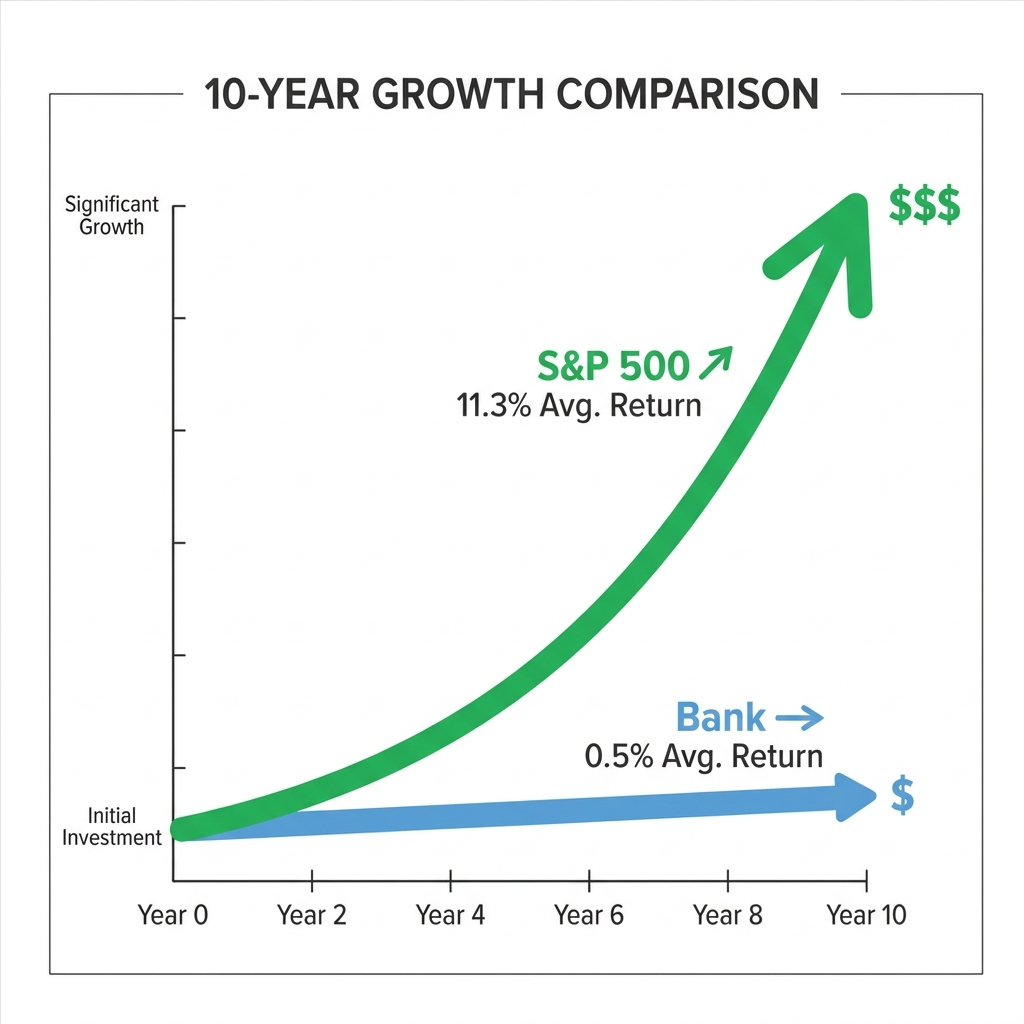
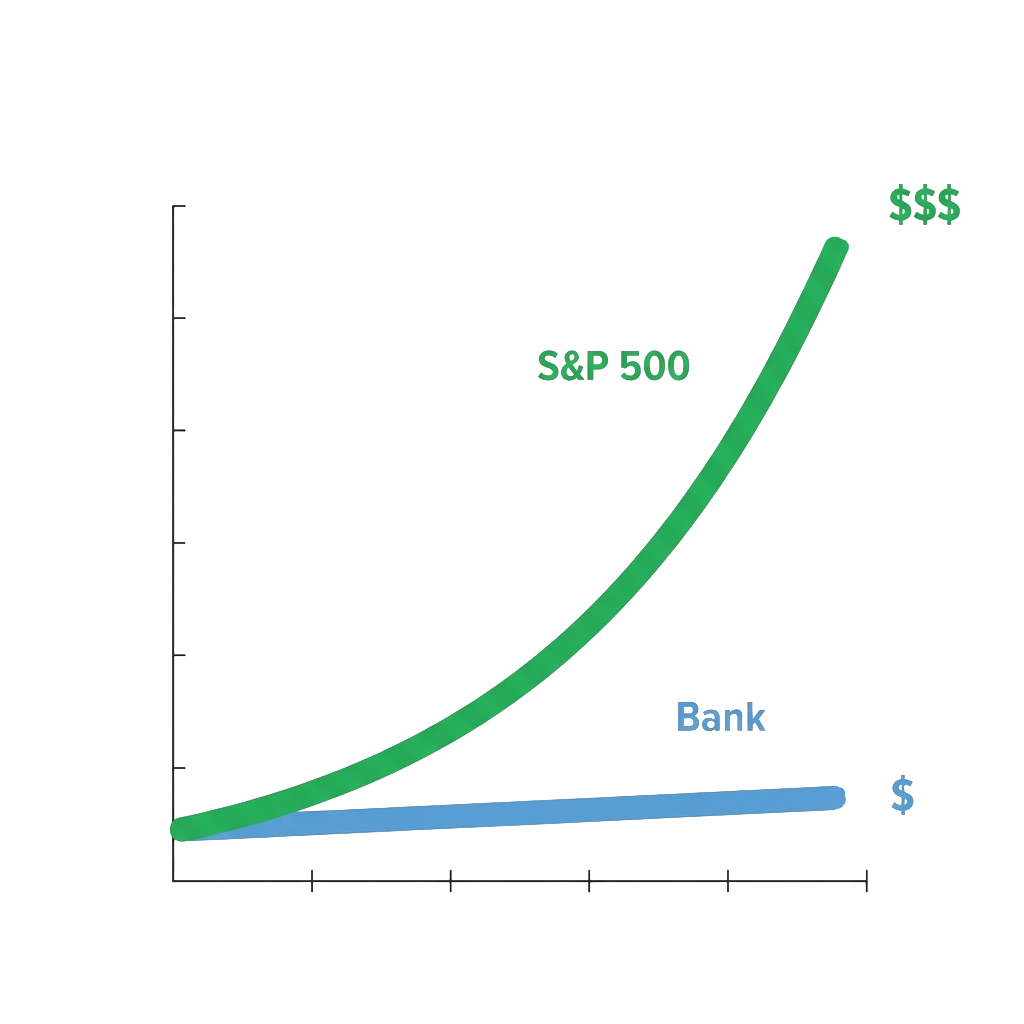
chore: update stocks vs bond illustration

diff --git a/scripts/generate_stocks_vs_bank_chart.py b/scripts/generate_stocks_vs_bank_chart.py
@@ -1,0 +1,58 @@
+
+import matplotlib.pyplot as plt
+import numpy as np
+
+# Data Configuration
+years = np.arange(0, 11) # 0 to 10 years
+initial_investment = 10000
+
+# Growth Rates
+rate_bank = 0.004 # 0.4%
+rate_stocks = 0.12 # 12.0%
+
+# Calculate Curves
+bank_values = initial_investment * (1 + rate_bank) ** years
+stock_values = initial_investment * (1 + rate_stocks) ** years
+
+# Style Configuration
+plt.figure(figsize=(10, 8), dpi=300)
+plt.style.use('default')
+
+# Remove borders (spines)
+for spine in plt.gca().spines.values():
+    spine.set_visible(False)
+
+# Colors
+COLOR_BANK = '#50C878' # Emerald/growth green
+COLOR_STOCKS = '#007AFF' # Investr Blue
+COLOR_TEXT = '#333333'
+
+# Plot Lines
+plt.plot(years, stock_values, color=COLOR_STOCKS, linewidth=4, label='S&P 500 (~12%)')
+plt.plot(years, bank_values, color=COLOR_BANK, linewidth=4, label='Savings (~0.4%)')
+
+# Fill areas for "modern" look (optional, but adds to the alert tile style)
+plt.fill_between(years, stock_values, bank_values, color=COLOR_STOCKS, alpha=0.1)
+plt.fill_between(years, bank_values, initial_investment, color=COLOR_BANK, alpha=0.1)
+
+# Annotations (End Values)
+plt.text(10.2, stock_values[-1], f'${stock_values[-1]:,.0f}', color=COLOR_STOCKS, fontsize=16, fontweight='bold', va='center')
+plt.text(10.2, bank_values[-1], f'${bank_values[-1]:,.0f}', color=COLOR_BANK, fontsize=16, fontweight='bold', va='center')
+
+# Labels and Ticks
+plt.title('Growth of $10,000 (10 Years)', fontsize=20, fontweight='bold', color=COLOR_TEXT, pad=20)
+plt.xlabel('Years', fontsize=14, color=COLOR_TEXT)
+plt.ylabel('Value', fontsize=14, color=COLOR_TEXT)
+
+plt.xticks(years)
+plt.gca().yaxis.set_major_formatter(plt.FuncFormatter(lambda x, p: f'${x:,.0f}'))
+plt.grid(axis='y', linestyle='--', alpha=0.3)
+
+# Legend
+plt.legend(frameon=False, fontsize=12, loc='upper left')
+
+# Adjust layout to prevent clipping
+plt.tight_layout()
+
+# Save
+plt.savefig('assets/images/education/stocks_vs_bank_accurate.png', transparent=False, bbox_inches='tight')

diff --git a/docs/sources.md b/docs/sources.md
@@ -17,13 +17,16 @@ This document tracks the sources of data and statistics used throughout the Inve
 *   **Data Point:** Average US Savings Rate (~0.4%).
 *   **Source:** Federal Deposit Insurance Corporation (FDIC) National Rates.
 *   **Time Period:** 2014 – 2024.
-*   **Details:** National average rates on savings accounts hovered near 0.06% for much of the decade, rising only in recent years (2023-2024) to ~0.45%. A 10-year average is approximately 0.17%, but ~0.4% is used as a generous upper bound for standard banks.
+*   **Details:** National average rates on savings accounts hovered near 0.06% for much of the decade.
+    *   *Nuance:* **High-Yield Savings Accounts (HYSAs)** offered higher rates (peaking ~2% in 2018 and ~5% in 2023), averaging closer to **1.5% - 2.0%** over the decade. Even at this "optimistic" rate, \$10k would only grow to ~$12,200, still significantly trailing the stock market.
 *   **Reference Links:**
     *   [FDIC National Rates](https://www.fdic.gov/resources/bankers/national-rates/)
 
 *   **Data Point:** S&P 500 Annualized Return (~12.0%).
 *   **Source:** Standard & Poor's / Ameriprise / OfficialData.
 *   **Time Period:** 2014 – 2024.
-*   **Details:** The 10-year annualized total return (with dividends reinvested) for the period ending 2024 is often cited between 12% and 15% depending on the exact end-date. We use a conservative ~12.0% estimate to account for volatility.
+*   **Details:** The 10-year annualized **Total Return** (assuming dividends are reinvested) is approximately **12.8% - 15.1%** depending on the specific end month in 2024.
+    *   *Price Return Only:* Without dividends, the return is ~10-12%.
+    *   *Comparison Fairness:* Since savings accounts compound interest (reinvest), it is fair to compare them against S&P 500 Total Return (reinvested). We use a conservative **~12.0%** figure to avoid overstating the case.
 *   **Reference Links:**
     *   [Official Data - S&P 500](https://www.officialdata.org/us/stocks/s-p-500/2014)
